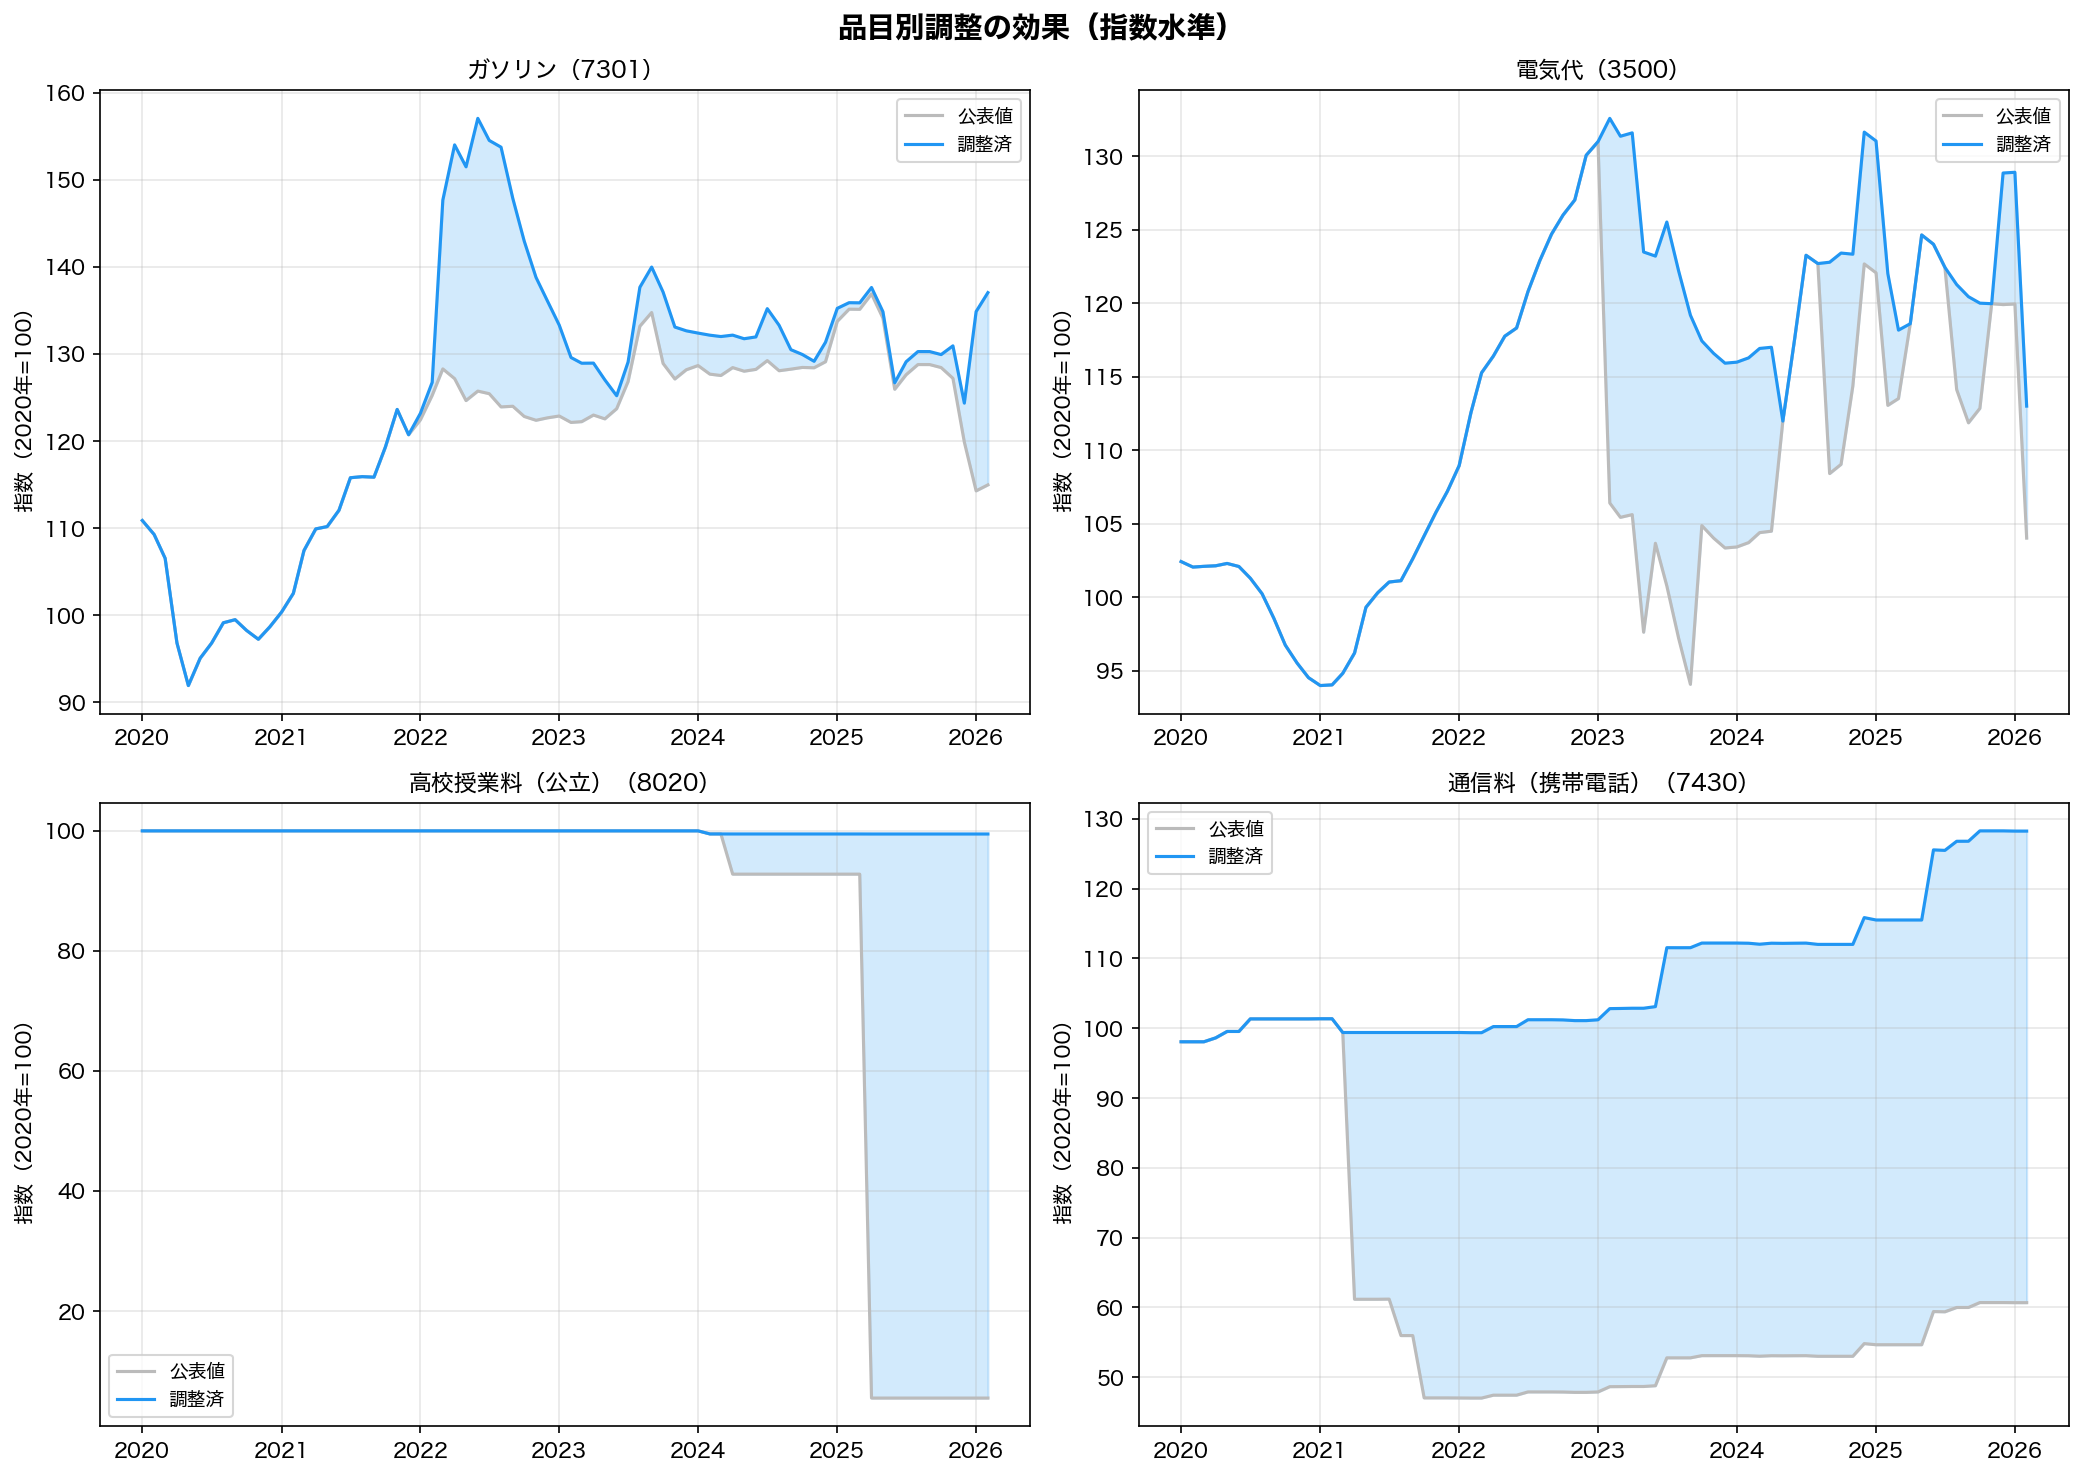
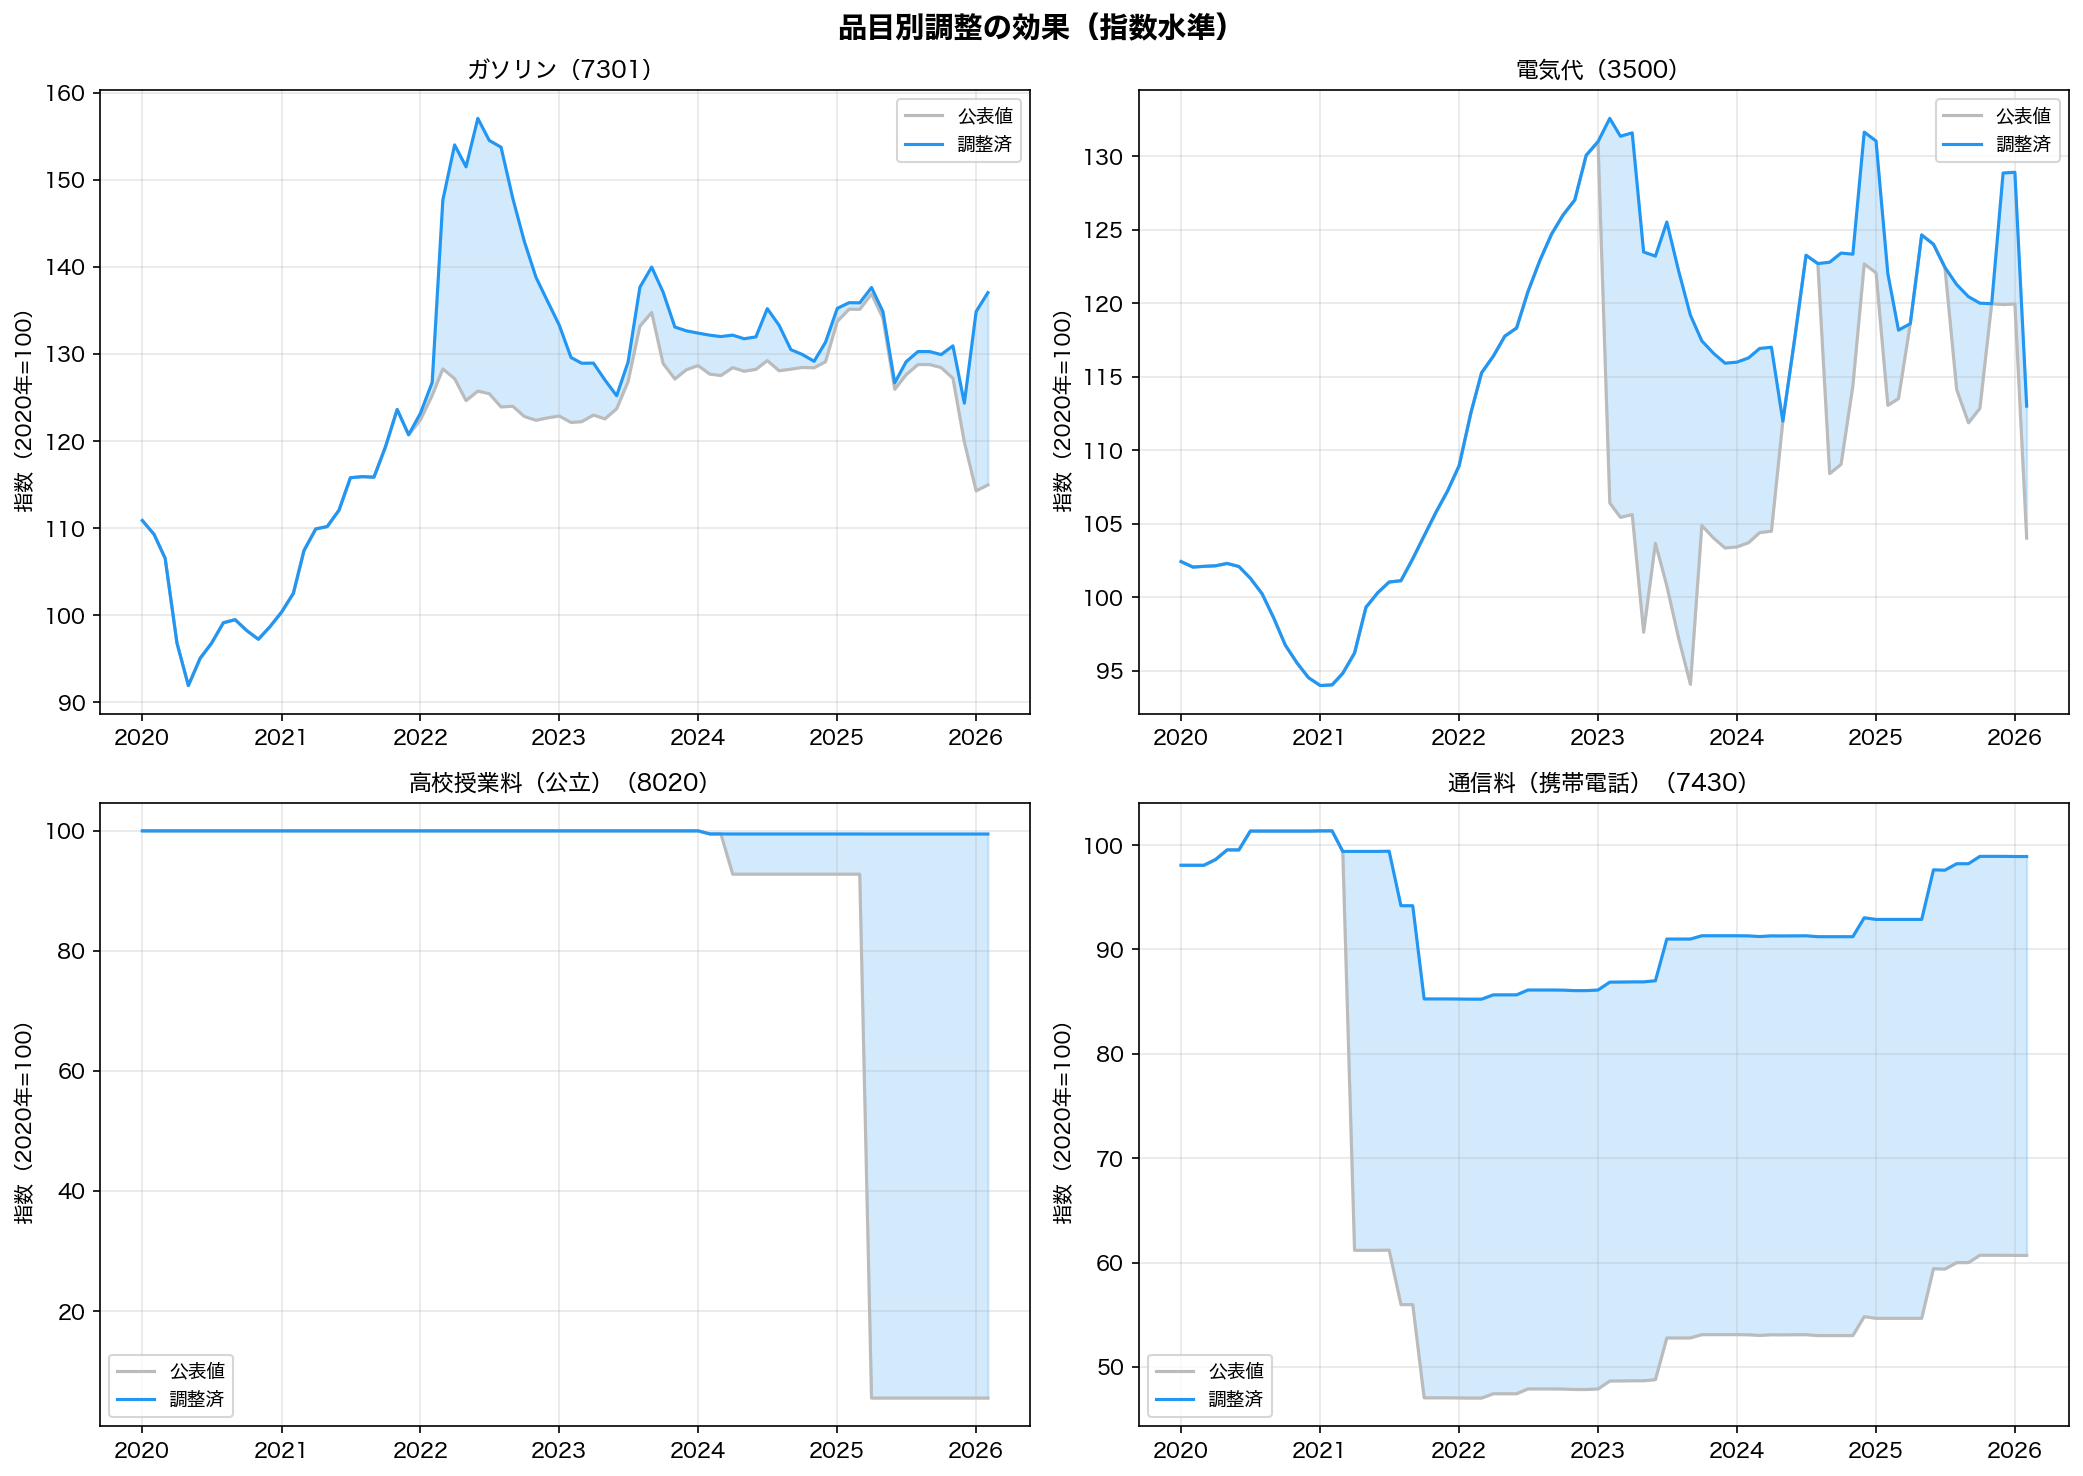
携帯通信料を保合+固定段差方式に修正
2021-04のみ保合、2021-05以降は固定段差38.2pt加算。
価格変動は絶対額ベースで効くため固定段差が正しい。

diff --git a/src/adjust_interpolation.py b/src/adjust_interpolation.py
@@ -22,39 +22,36 @@ import pandas as pd
 
 
 def adjust_mobile(cpi_index: pd.Series) -> pd.Series:
-    """携帯通信料の調整（保合＋前月比延長方式）
+    """携帯通信料の調整（保合＋固定段差方式）
 
     1. 急落前（〜2021-03）: 実績値そのまま
-    2. 急落期間（2021-04〜2021-12）: 急落前水準で保合（横ばい）
-    3. 安定後（2022-01〜）: 実績の前月比で延長
-       adjusted[t] = adjusted[t-1] × actual[t] / actual[t-1]
+    2. 2021-04のみ: 急落前水準で保合（段差の吸収）
+    3. 2021-05以降: 固定段差を加算
+       step = 2021-03の水準 - 2021-04の水準
+       adjusted[t] = actual[t] + step
 
-    恒久的な固定段差加算ではなく、安定後の自然な価格変動を
-    調整済水準からの前月比で反映する。
+    価格変動は絶対額（円）ベースで効くため、固定段差の加算が正しい。
+    （前月比方式だとパーセント変化が高い水準に適用され過大評価になる）
     """
     adjusted = cpi_index.copy()
     all_months = list(cpi_index.index)
 
     start_ym = "2021-03"
-    end_ym = "2022-01"
-    if start_ym not in all_months or end_ym not in all_months:
+    drop_ym = "2021-04"
+    if start_ym not in all_months or drop_ym not in all_months:
         return adjusted
 
-    val_start = cpi_index[start_ym]  # 急落前水準
+    val_pre = cpi_index[start_ym]    # 急落前水準
+    val_drop = cpi_index[drop_ym]    # 急落直後
+    step = val_pre - val_drop         # 段差
+
     i_start = all_months.index(start_ym)
-    i_end = all_months.index(end_ym)
 
     for i in range(len(all_months)):
         if i <= i_start:
-            # 急落前: 実績値
             pass
-        elif i <= i_end:
-            # 急落期間: 保合（急落前水準を維持）
-            adjusted.iloc[i] = val_start
         else:
-            # 安定後: 前月比で延長
-            mom = cpi_index.iloc[i] / cpi_index.iloc[i - 1]
-            adjusted.iloc[i] = adjusted.iloc[i - 1] * mom
+            adjusted.iloc[i] = cpi_index.iloc[i] + step
 
     return adjusted
 
